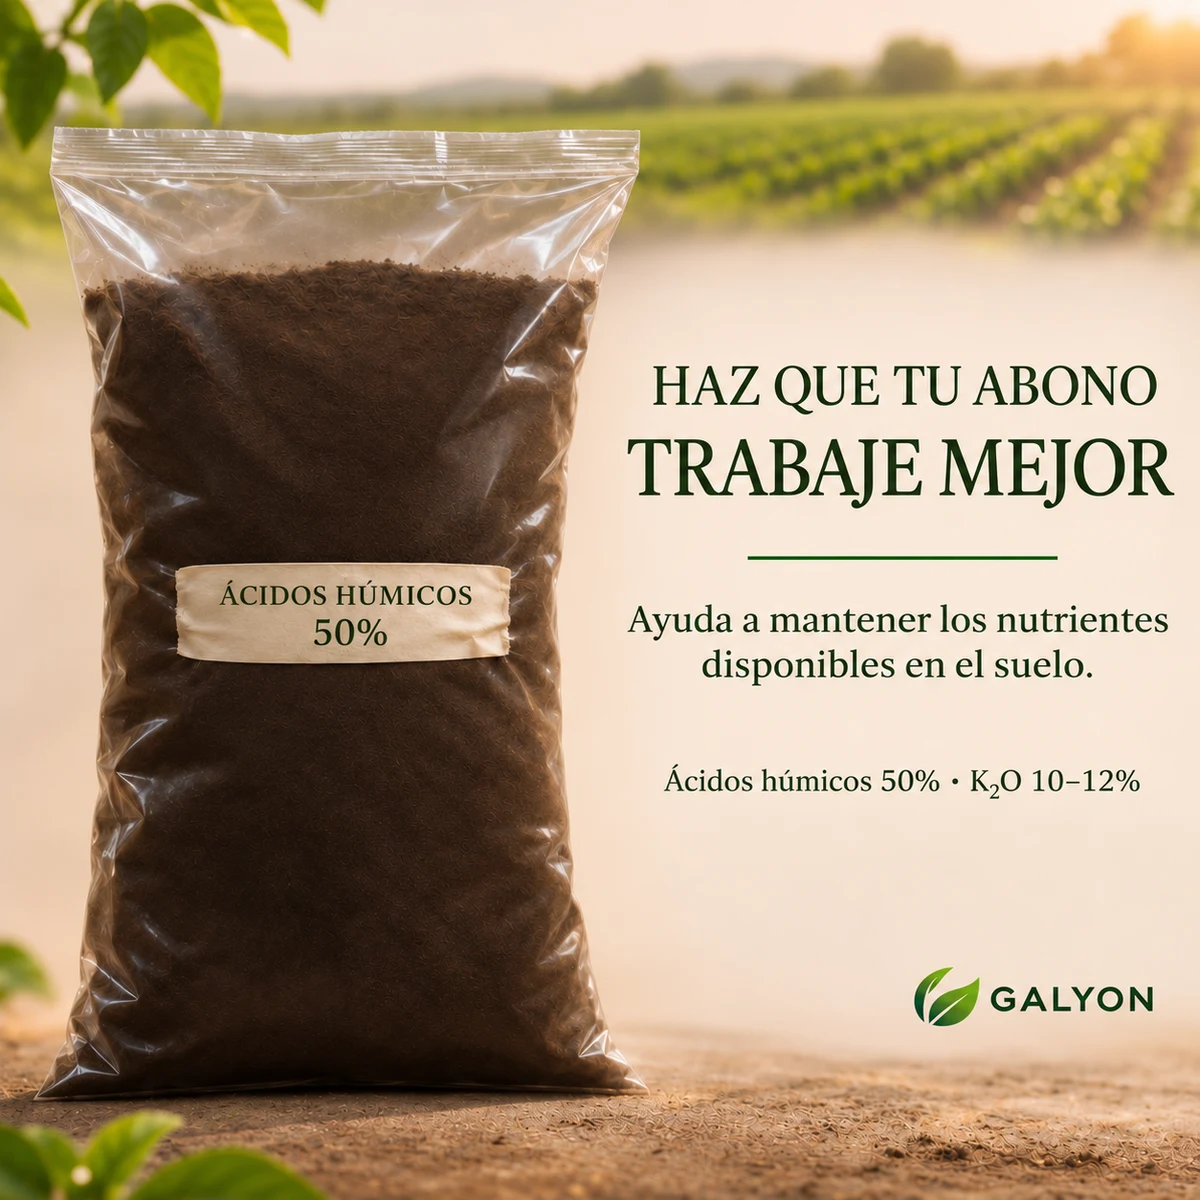
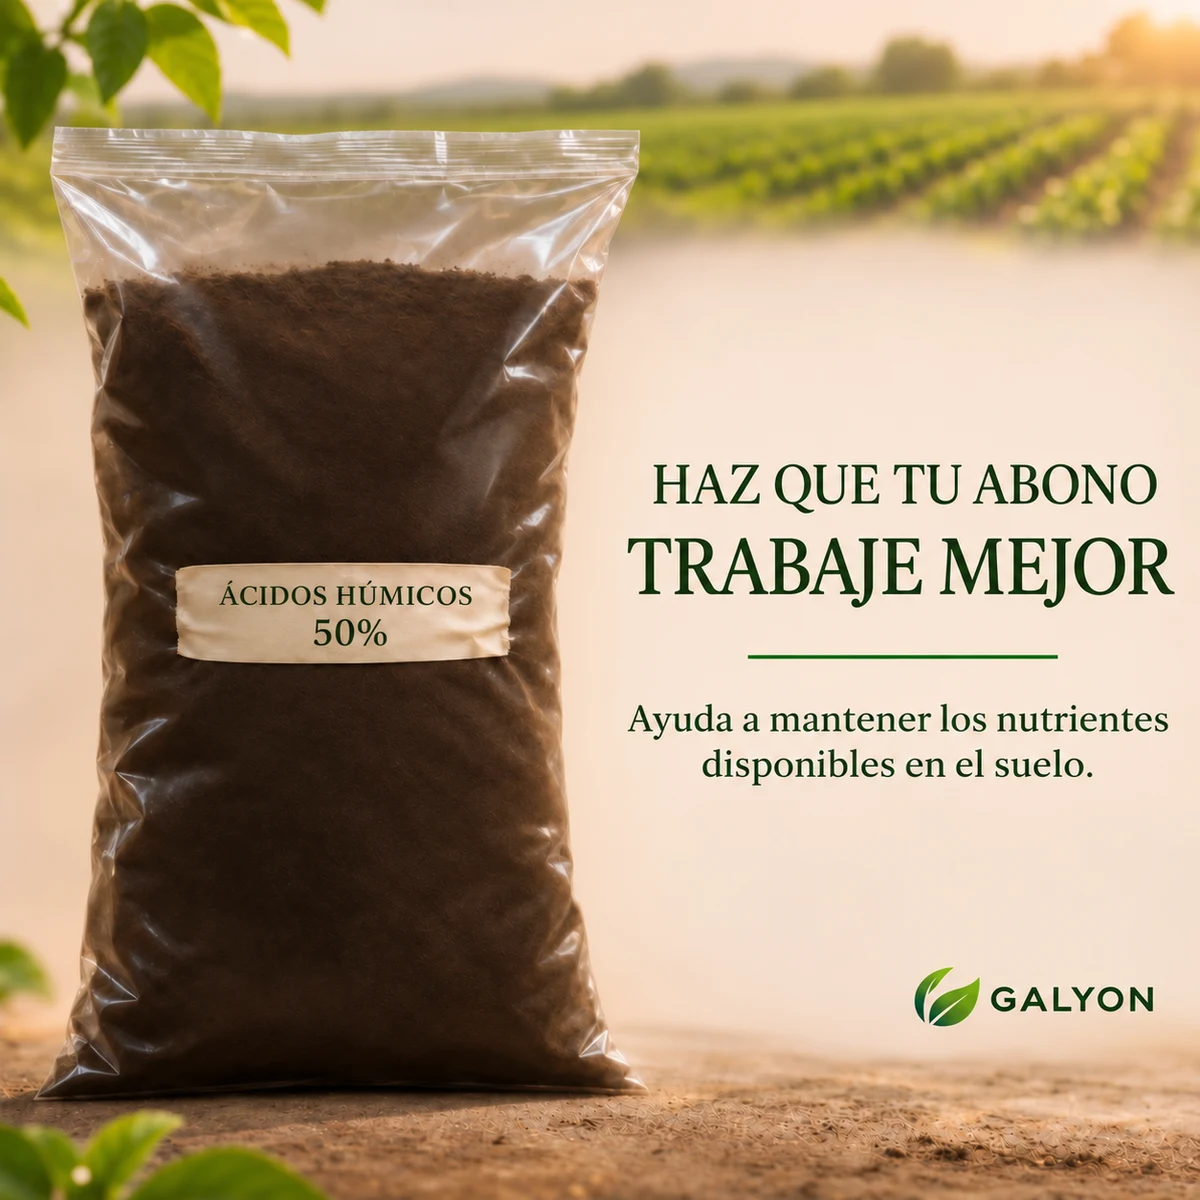
Simplificar imagen de ácidos húmicos y retirar el pie de imagen

diff --git a/index.html b/index.html
@@ -129,8 +129,7 @@
       <div class="wrap">
         <div class="humic-panel">
           <figure class="humic-visual">
-            <a href="assets/acidos-humicos-50.webp" target="_blank" rel="noopener" aria-label="Ver la presentación de Ácidos Húmicos 50 % a tamaño completo"><img src="assets/acidos-humicos-50.webp" alt="Ácidos Húmicos 50 % en funda transparente con etiqueta discreta y la firma de GALYON. Haz que tu abono trabaje mejor." width="1200" height="1200" loading="lazy" decoding="async" /></a>
-            <figcaption>Ver imagen completa</figcaption>
+            <a href="assets/acidos-humicos-50.webp?v=2" target="_blank" rel="noopener" aria-label="Ver la presentación de Ácidos Húmicos 50 % a tamaño completo"><img src="assets/acidos-humicos-50.webp?v=2" alt="Ácidos Húmicos 50 % en funda transparente con etiqueta discreta y la firma de GALYON. Haz que tu abono trabaje mejor." width="1200" height="1200" loading="lazy" decoding="async" /></a>
           </figure>
           <div class="humic-copy">
             <span class="eyebrow">GALYON · ACONDICIONAMIENTO DEL SUELO</span>
